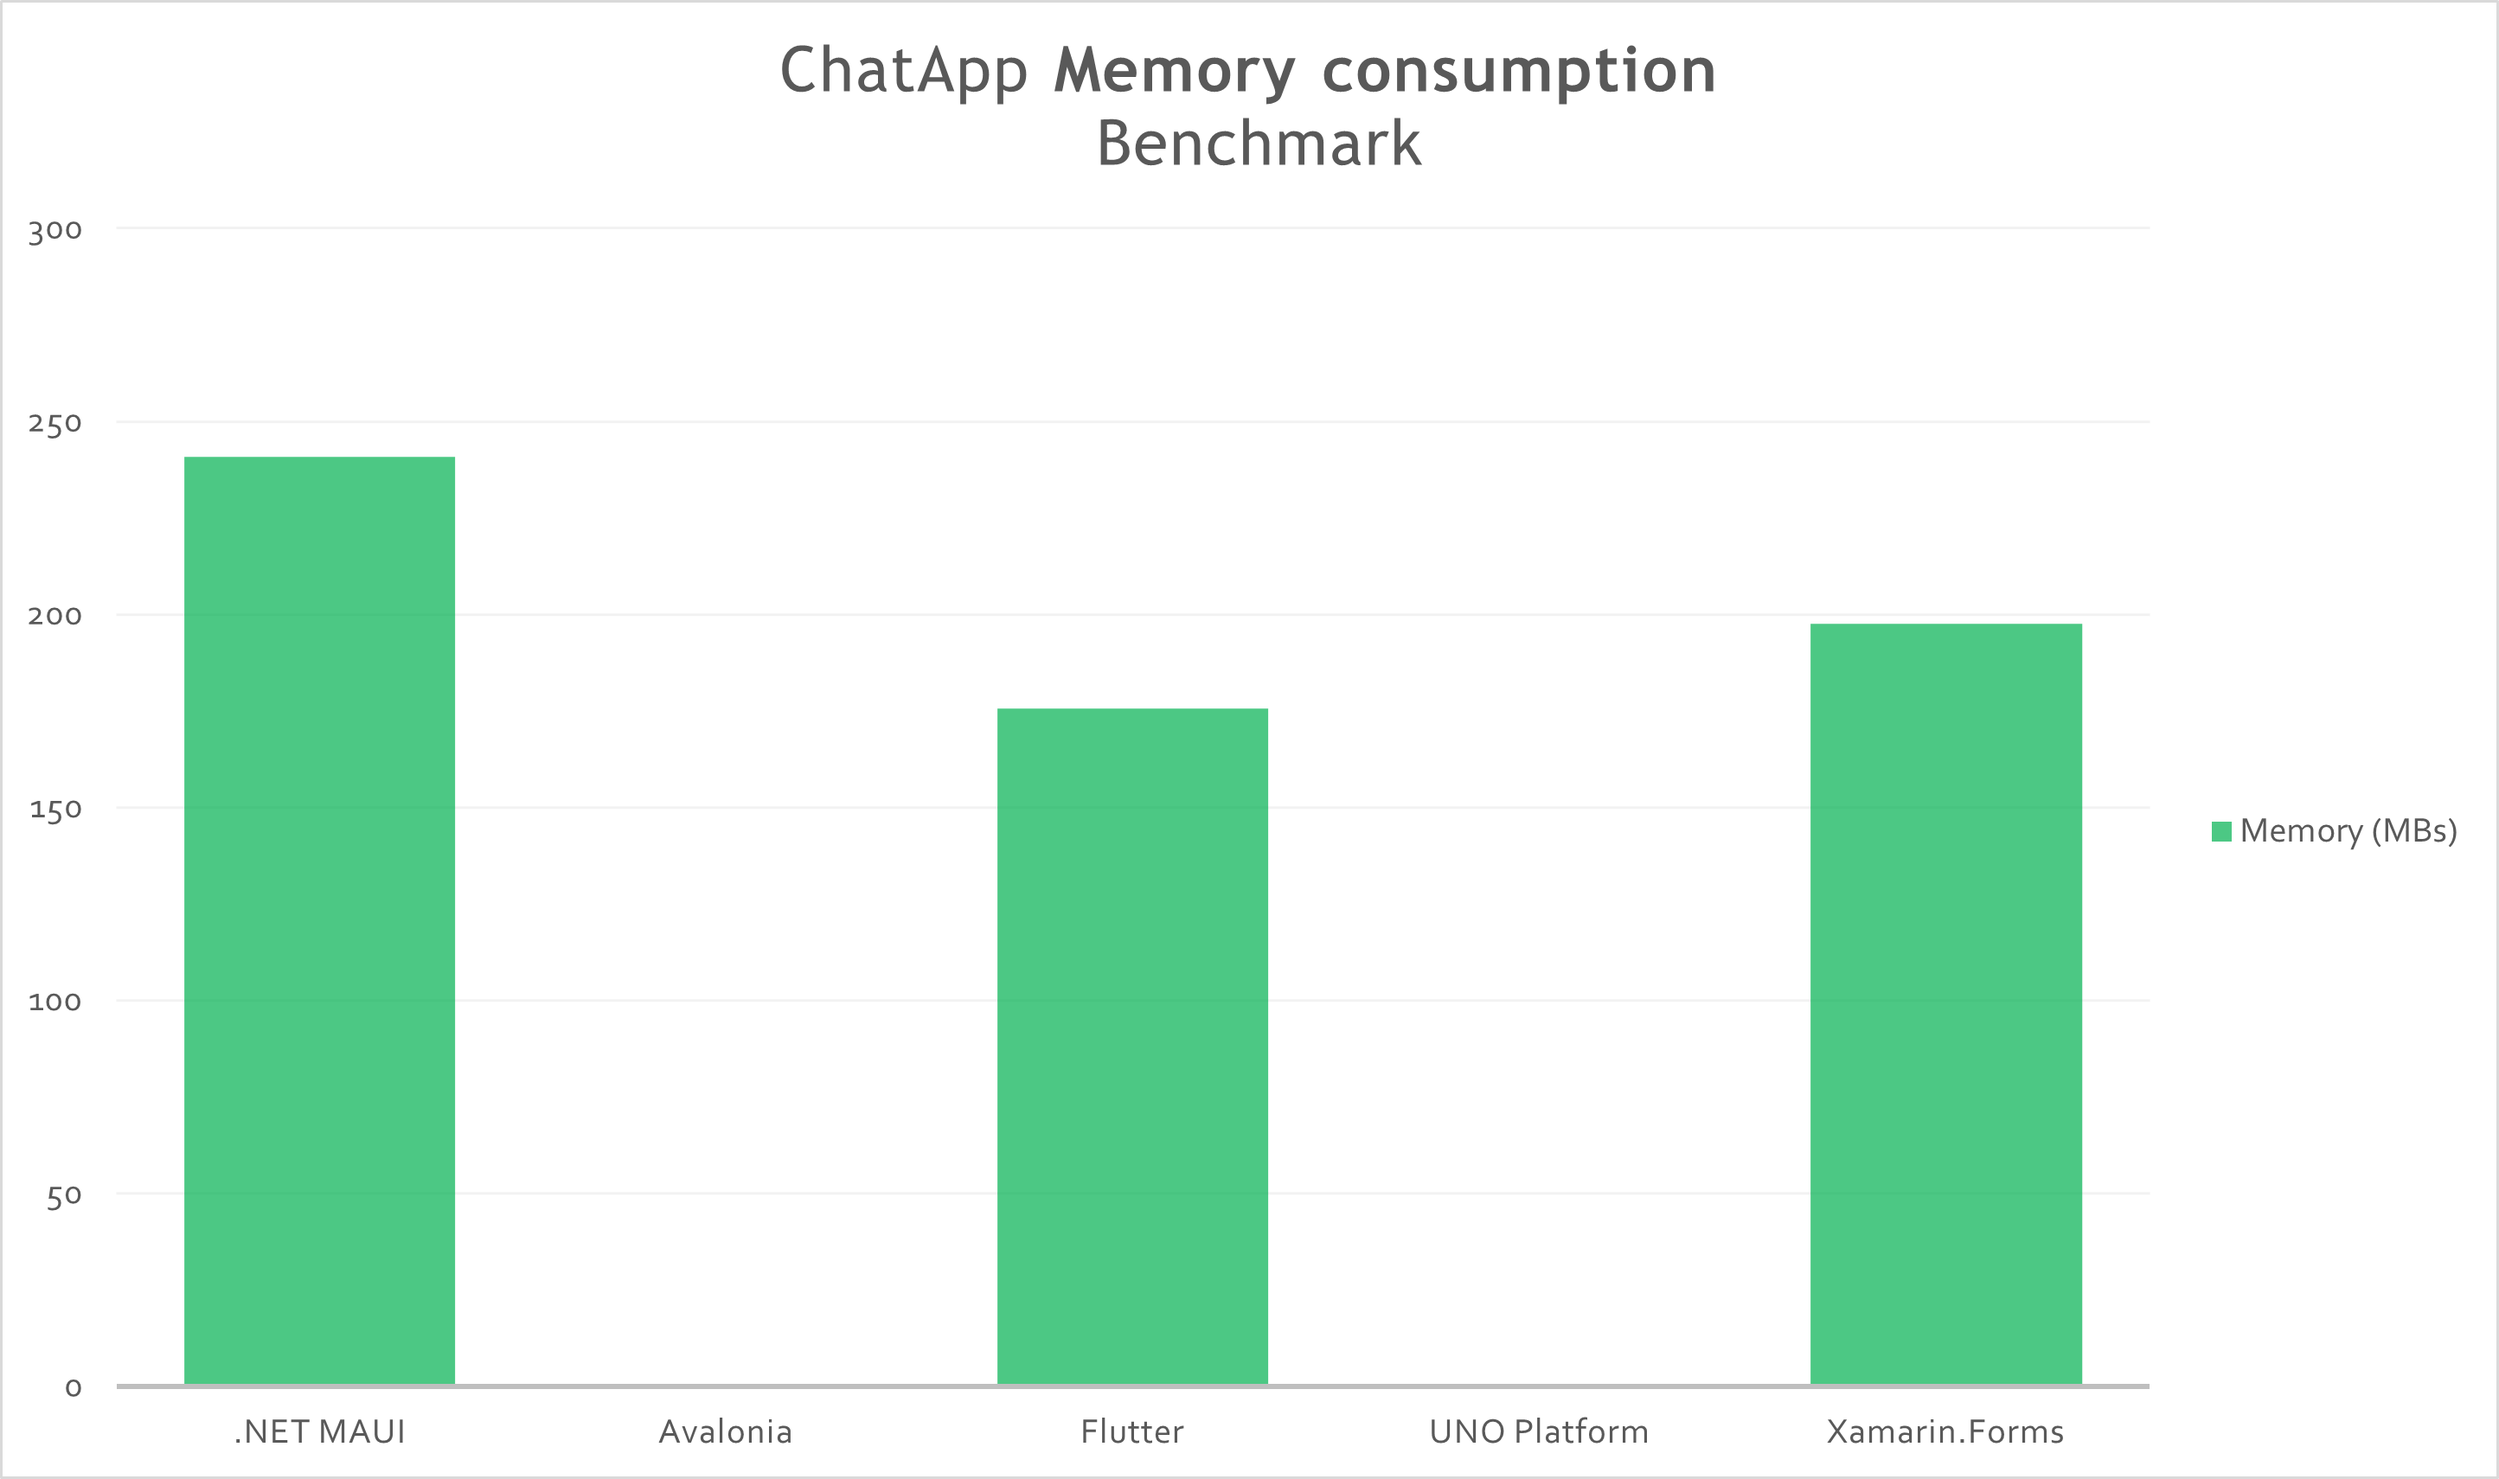
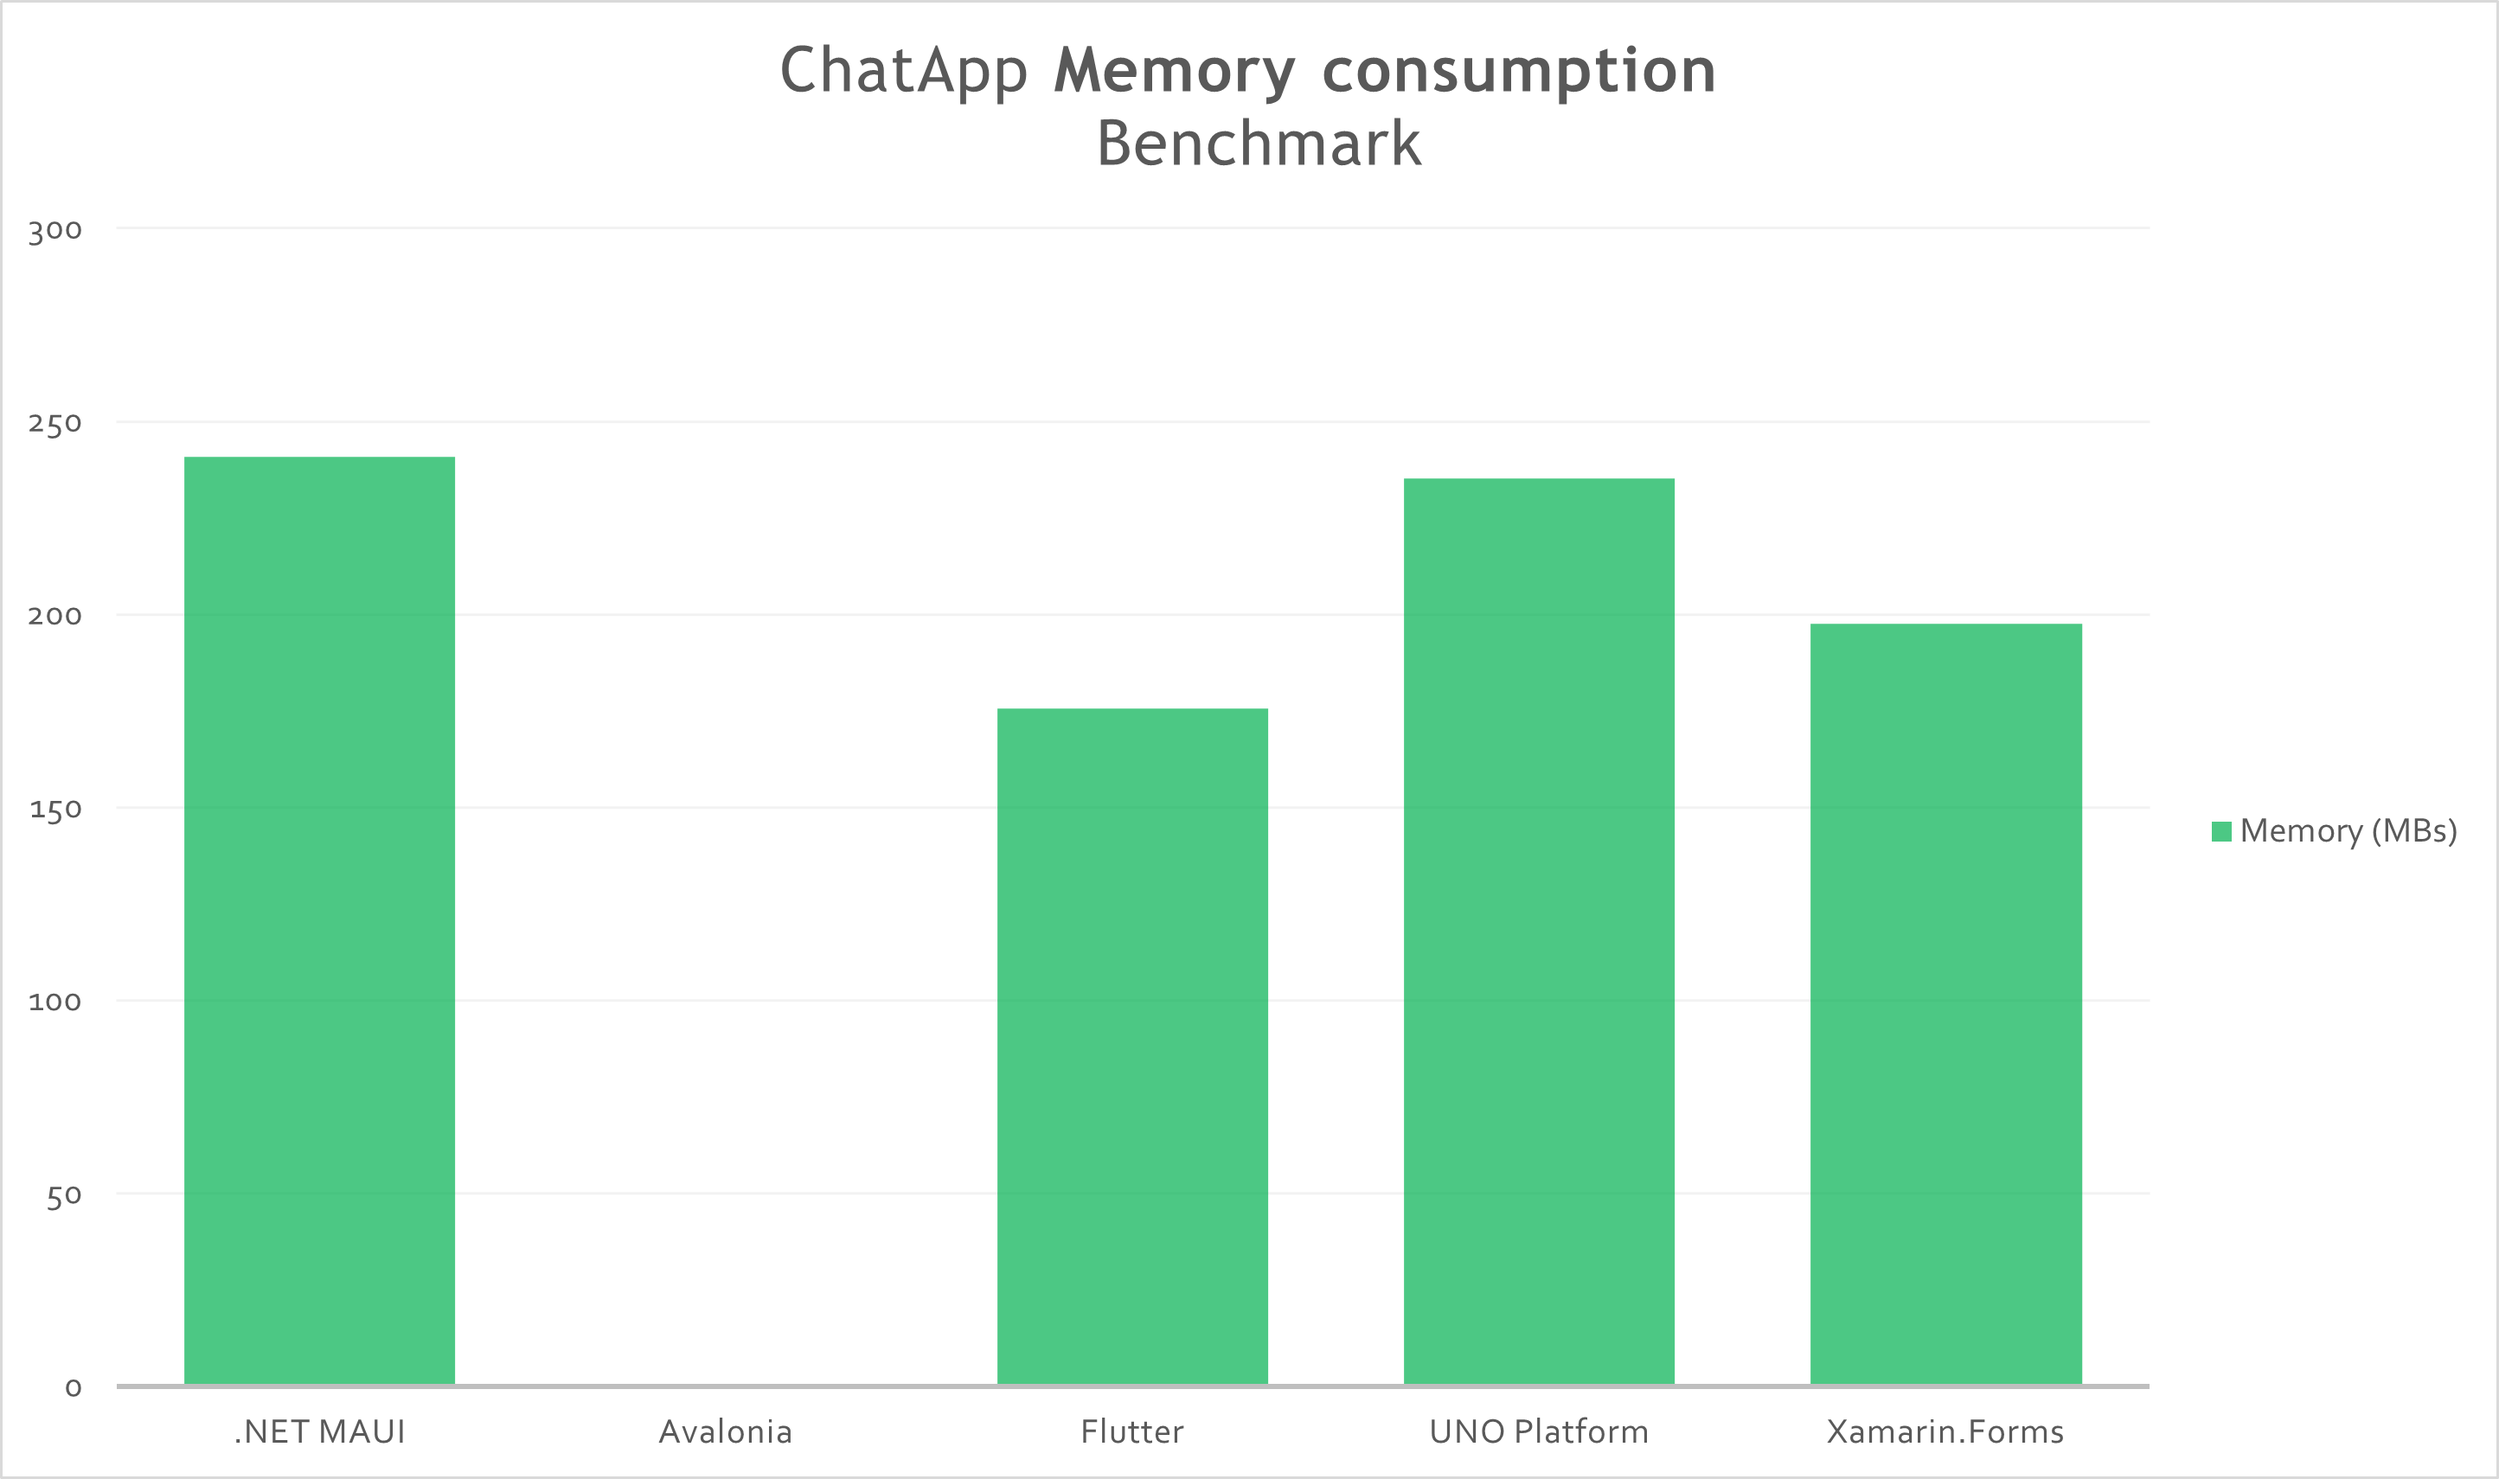
More updates

Changed region(s): [[0.5607, 0.3099, 0.6854, 0.9608]]

diff --git a/README.md b/README.md
@@ -89,7 +89,7 @@ _(lower values are better)_
 | ChatApp    |  .NET MAUI GA SR1          |                 240.876 |
 | ChatApp    |  Avalonia 0.10.15           |                 - |
 | ChatApp    |  Flutter 3.0.2            |                 175.596 |
-| ChatApp    |  UNO Platform 4.3       |                 - |
+| ChatApp    |  UNO Platform 4.3       |                 235.116 |
 | ChatApp    |  Xamarin.Forms 5.0 SR11     |                 197.504 |
 
 _(lower values are better)_
